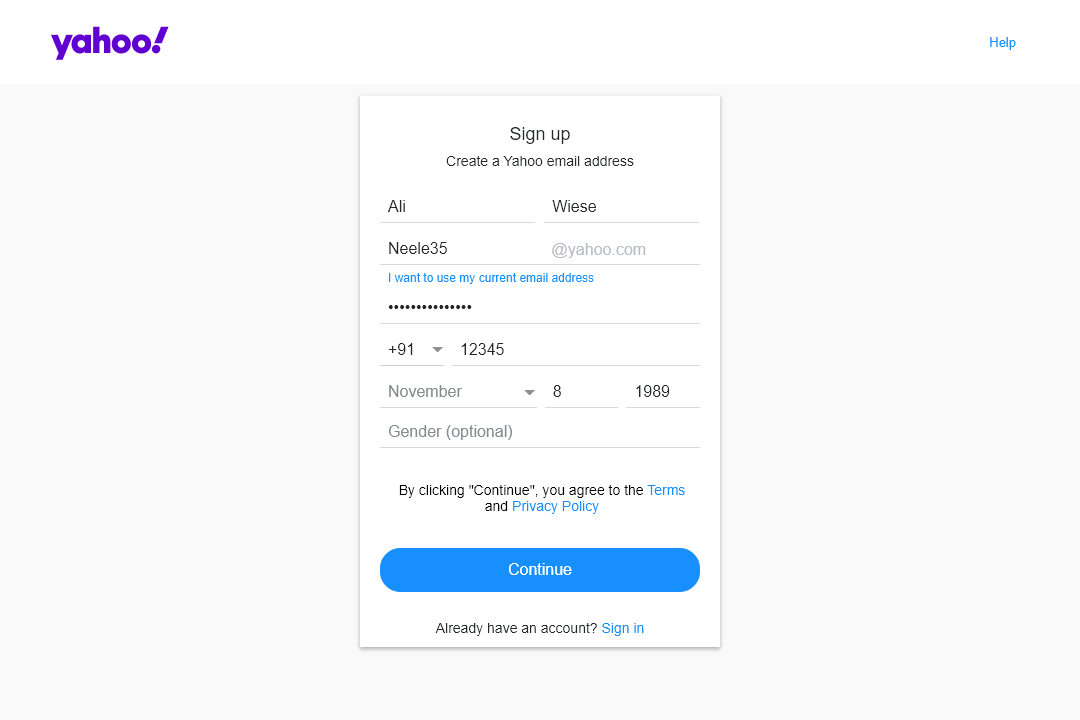
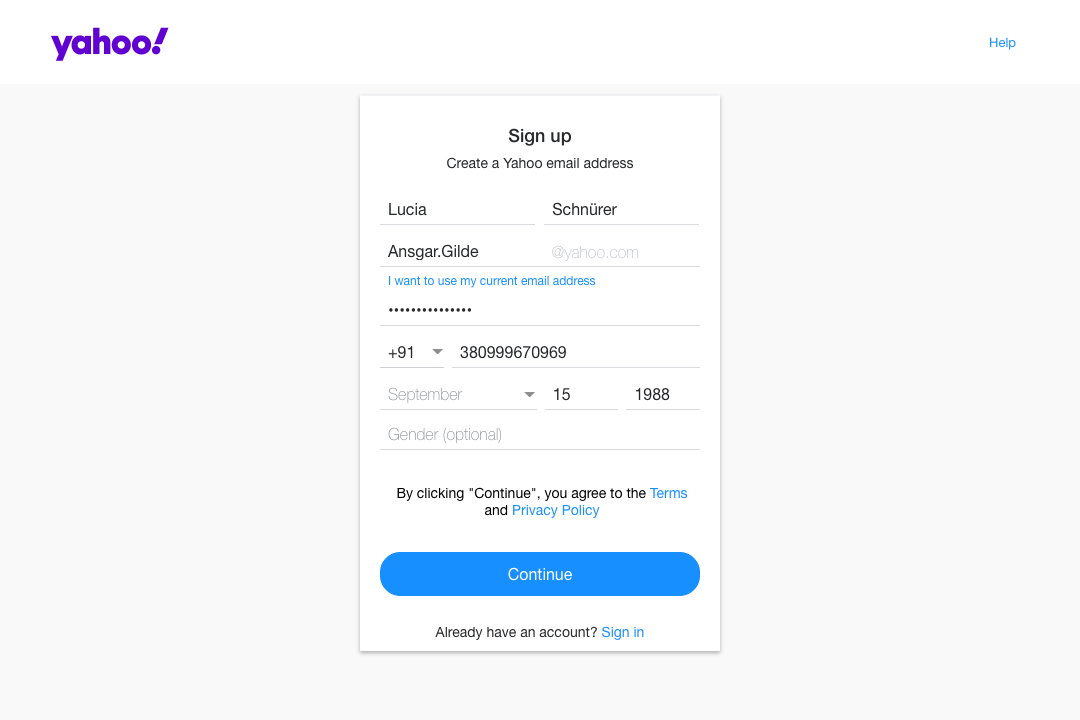
phonenumber implementation 15_08_2020

diff --git a/models/YahooMail.js b/models/YahooMail.js
@@ -1,8 +1,10 @@
 const puppeteer = require('puppeteer');
 const { response } = require('express');
 var faker = require('faker/locale/de');
+const SMSActivate = require('sms-activate')
+const sms = new SMSActivate('940054f3775c2e49f71fd64c4c3ef116')
 
-module.exports =  class YahooMail {
+module.exports = class YahooMail {
     constructor() {
     }
 
@@ -17,18 +19,23 @@ module.exports =  class YahooMail {
             deviceScaleFactor: 1,
         });
         await page.goto(url, { waitUntil: 'networkidle2' });
-        
-        let date = await this.getDate('1-1-1960','1-1-2000')
-
+        let phoneData = await this.getNumber();
+        let phoneNumber = undefined;
+        let date = await this.getDate('1-1-1960', '1-1-2000')
+        if (phoneData.balance > 1.5) {
+            phoneNumber = phoneData.number
+        } else {
+            return { "Success": false, "Message": "The balance error", "Payload": [phoneData] }
+        }
         let userData = {
-            'firstName':faker.name.firstName(),
-            'lastName':faker.name.lastName(),
-            'yid':await this.getMailID(),
-            'password':faker.internet.password(),
-            'phone':"12345",
-            'mm':date.getMonth(),
-            'dd':date.getDate(),
-            'yyyy':date.getFullYear(),
+            'firstName': faker.name.firstName(),
+            'lastName': faker.name.lastName(),
+            'yid': await this.getMailID(),
+            'password': faker.internet.password(),
+            'phone': phoneNumber,
+            'mm': date.getMonth(),
+            'dd': date.getDate(),
+            'yyyy': date.getFullYear(),
         }
 
         console.log(userData)
@@ -44,15 +51,15 @@ module.exports =  class YahooMail {
             'yyyy'
         ]
 
-        for(let i=0; i<8;i++) {
+        for (let i = 0; i < 8; i++) {
             let myValue = userData[selectors[i]];
-            let inputSelector = "[name='"+selectors[i]+"']";
+            let inputSelector = "[name='" + selectors[i] + "']";
             console.log(inputSelector)
 
             await page.evaluate((myValue, inputSelector) => {
-                document.querySelector(inputSelector).value=myValue;
-            },myValue, inputSelector)
-            
+                document.querySelector(inputSelector).value = myValue;
+            }, myValue, inputSelector)
+
             await page.waitFor(await this.stopTime())
         }
 
@@ -63,27 +70,32 @@ module.exports =  class YahooMail {
 
         let eFlag = 0;
 
-        //eFLag
-        eFlag = await page.evaluate(()=>{
-            if(document.querySelector('#reg-error-yid').childElementCount > 0) {
-                return 1;
-            } else {
-                return 0;
-            }
-        })
+        async function checkRightMail() {
+            return await page.evaluate(() => {
+                if (document.querySelector('#reg-error-yid').childElementCount > 0) {
+                    return 1;
+                } else {
+                    return 0;
+                }
+            })
+        }
 
-        if(eFlag) {
+        eFlag = await checkRightMail()
+        while (eFlag) {
             let myValue = await this.getMailID()
             await page.evaluate((myValue) => {
-                document.querySelector(['name="yid"']).value=myValue;
-            },myValue)
-            
+                document.querySelector(['name="yid"']).value = myValue;
+            }, myValue)
+
             await page.click('#reg-submit-button')
             await page.waitFor(4000)
             await page.screenshot({ path: 'example3.png' });
+            eFlag = await checkRightMail()
         }
 
-       /* let responseURL = 'https://login.yahoo.com/account/module/create?validateField=phone'
+        await page.waitFor(await this.stopTime())
+        await page.screenshot({ path: 'example4.png' });
+        /* let responseURL = 'https://login.yahoo.com/account/module/create?validateField=phone'
         const myResponse = await page.waitForResponse(responseURL);
         await browser.waitFor(2000);*/
         //console.log(myResponse)
@@ -96,8 +108,8 @@ module.exports =  class YahooMail {
 
     async getMailID() {
         let emailID = faker.internet.email()
-        var remove_after= emailID.indexOf('@');
-        emailID =  emailID.substring(0, remove_after);
+        var remove_after = emailID.indexOf('@');
+        emailID = emailID.substring(0, remove_after);
         return emailID
     }
 
@@ -110,12 +122,35 @@ module.exports =  class YahooMail {
         var date2 = date2 || new Date().toLocaleDateString()
         date1 = new Date(date1).getTime()
         date2 = new Date(date2).getTime()
-        if( date1>date2){
-            return new Date(await this.randomValueBetween(date2,date1))  
-        } else{
+        if (date1 > date2) {
+            return new Date(await this.randomValueBetween(date2, date1))
+        } else {
             return new Date(await this.randomValueBetween(date1, date2))
         }
     }
 
-    
+    async getNumber() {
+        let balance = await sms.getBalance()
+
+        //sms.getBalance().then(async (balance) => { //https://sms-activate.ru/stubs/handler_api.php?api_key=$api_key&action=getBalance
+        if (balance > 0) {
+            const { id, number } = await sms.getNumber('mb', 1) // yandex https://sms-activate.ru/stubs/handler_api.php?api_key=$api_key&action=getNumber&service=$service&forward=$forward&operator=$operator&ref=$ref&country=$country
+            var data = { balance: balance, number: number, orderId: id }
+            console.log(data)
+            return new Promise((resolve, reject) => {
+                resolve(data)
+                return data;
+            })
+
+        } else {
+            return new Promise((resolve, reject) => {
+                resolve(balance)
+                return {balance:balance};
+            })
+            console.log('Balance is zero', balance)
+        }
+        //   }).catch(console.error)
+    }
+
+
 }

diff --git a/models/mail.js b/models/mail.js
@@ -5,149 +5,6 @@ var Imap = require('imap'),
 const simpleParser = require('mailparser').simpleParser;
 var fs = require('fs'), fileStream;
 
-/*
-class Mail {
-    constructor() {
-
-    }
-
-    async sendmail(email, data, ActivityID, TenantID, ServiceID, filename, fieldname) {
-
-        try {
-
-
-            var transporter = nodemailer.createTransport({
-                host: credentials[0].Parameters.Host,
-                port: credentials[0].Parameters.Port,
-                auth: {
-                    user: credentials[0].Parameters.User,
-                    pass: credentials[0].Parameters.Pass
-                },
-
-                secure: true
-            });
-            var regards = "\n\n\n\nRegards \nUnipruf Team"
-
-
-
-
-            if (typeof (data) == "object") {
-                let d = Object.keys(data)
-                var FullData = mailOptions[0].Text
-
-                for (let rd = 0; rd < d.length; rd++) {
-
-                    var replacestring = "$" + d[rd]
-
-                    var FullData = FullData.replace(replacestring, data[d[rd]])
-                }
-                var mailOption = {
-                    from: credentials[0].Parameters.From,
-                    to: email,
-                    subject: mailOptions[0].Subject,
-                    text: FullData
-                };
-            } else {
-                var FullData = await this.parse(mailOptions[0].Text, data)
-                var mailOption = {
-                    from: credentials[0].Parameters.From,
-                    to: email,
-                    subject: mailOptions[0].Subject,
-                    text: FullData
-                };
-            }
-
-
-
-            try {
-
-                transporter.sendMail(mailOption)
-
-            } catch (e) {
-                return e
-
-            }
-
-            // if(fieldname){
-
-            //    await fs.unlinkSync(mailOptions[0].Path + fieldname)
-            //     await  fs.unlinkSync(mailOptions[0].Path + filename)
-
-            // }else{
-            //   await   fs.unlinkSync(mailOptions[0].Path + filename)
-
-            // }
-
-
-
-
-            return { "Success": true, "Message": "Email Sent", "Payload": [] }
-        } catch (e) {
-            return { "Success": false, "Error": e.toString(), "Payload": [] };
-        }
-
-    };
-
-    async parse(str) {
-        var args = [].slice.call(arguments, 1),
-            i = 0;
-
-        return str.replace(/%s/g, () => args[i++]);
-    }
-
-    async mailparse(str) {
-        var args = [].slice.call(arguments, 1),
-            i = 0;
-
-        return str.replace(/%s/g, () => args[i++]);
-    }
-
-    async main() {
-        // Generate test SMTP service account from ethereal.email
-        // Only needed if you don't have a real mail account for testing
-        // create reusable transporter object using the default SMTP transport
-        let transporter = nodemailer.createTransport({
-            host: "smtp.mail.yahoo.com",
-            service: 'yahoo',
-            secure: false,
-            port: 465,
-            auth: {
-                user: 'shriyashshingare@yahoo.com', // generated ethereal user
-                pass: 'ricbssvuwttkubxt', // generated ethereal password
-            },
-            debug: true,
-            logger: true
-        });
-
-        
-        // send mail with defined transport object
-        let info = await transporter.sendMail({
-          from: '"Shriyash Shingare" <devlinklabs@gmail.com>', // sender address
-          to: "neel99khalade@gmail.com, shriyashshingare@gmail.com", // list of receivers
-          subject: "Hello ✔", // Subject line
-          text: "Hello world?", // plain text body
-          html: "<b>Hello world?</b>", // html body
-        });
-
-        const mailOptions = {
-            from: 'ShriyashShingare <shriyashshingare@yahoo.com>',
-            to: 'neel99khalade@gmail.com, shriyashshingare@gmail.com',
-            subject: 'Invoices due',
-            text: 'Dudes, we really need your money.'
-        };
-
-        transporter.sendMail(mailOptions, function (error, info) {
-            if (error) {
-                console.log(error);
-            } else {
-                console.log('Email sent: ' + info.response);
-            }
-        });
-    }
-
-
-}*/
-
 class Mail {
 
     constructor() { 

diff --git a/test.js b/test.js
@@ -1,7 +1,7 @@
 //const mailjs = require('./models/mail');
 const YahooMail = require('./models/YahooMail')
-const SMSActivate = require('sms-activate')
-const sms = new SMSActivate('940054f3775c2e49f71fd64c4c3ef116')
+// const SMSActivate = require('sms-activate')
+// const sms = new SMSActivate('940054f3775c2e49f71fd64c4c3ef116')
 /*
 async function mydata() {
     var mail = await new mailjs().receiveMail();
@@ -33,25 +33,19 @@ async function mydata() {
 //         console.log('You don\'t have enough money')
 //     }
 // }
-sms.getBalance().then(async (balance) => {
-    if (balance > 0) {
-      const { id, number } = await sms.getNumber('ya', 1) // yandex
-      console.log(`Number: ${number}, Order Id: ${id}`)
+
+
+// smsTesting();
+mydata();
+
+// await sms.setStatus(id, 1)
   
-      await sms.setStatus(id, 1)
-  
-      // you can add timeout to here
-      const waitForCode = setInterval(async () => {
-        const code = await sms.getCode(id)
-        if (code) {
-          clearInterval(waitForCode)
-          console.log(`code received: ${code}`)
-          await sms.setStatus(id, 6)
-        }
-      }, 1000)
-    } else {
-      console.log('Balance is zero', balance)
-    }
-  }).catch(console.error)
-smsTesting();
-//mydata();
+// // you can add timeout to here
+// const waitForCode = setInterval(async () => {
+//   const code = await sms.getCode(id)  //https://sms-activate.ru/stubs/handler_api.php?api_key=$api_key&action=setStatus&status=$status&id=$id&forward=$forward
+//   if (code) {
+//     clearInterval(waitForCode)
+//     console.log(`code received: ${code}`)
+//     await sms.setStatus(id, 6)
+//   }
+// }, 1000)

diff --git a/models/Model.js b/models/Model.js
@@ -1,0 +1,15 @@
+var mysql      = require('mysql');
+var connection = mysql.createConnection({
+  host     : 'localhost',
+  user     : 'root',
+  password : 'ifconfig@1Qaz',
+  database : 'my_db'
+});
+
+connection.connect();
+
+connection.query('SELECT 1 + 1 AS solution', function (error, results, fields) {
+  if (error) throw error;
+  console.log('The solution is: ', results[0].solution);
+});
+module.expots = connection;
